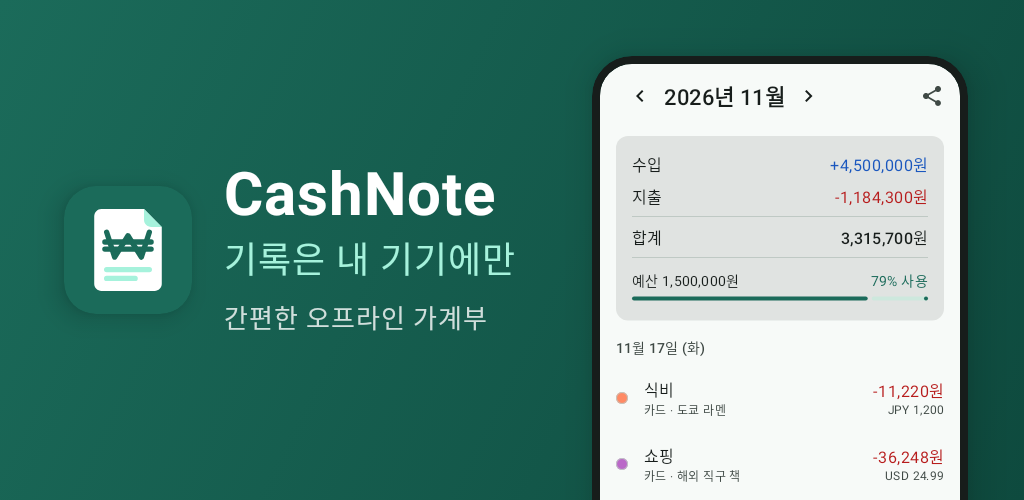
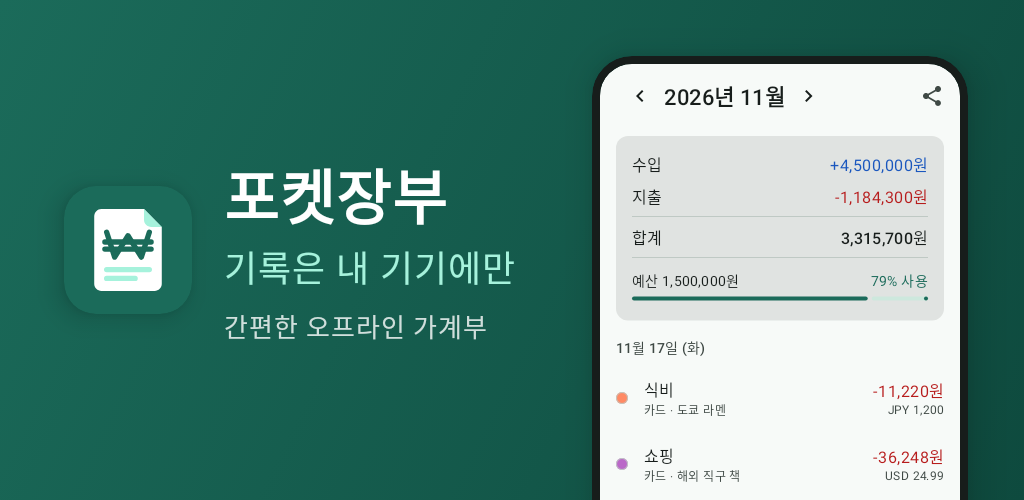
chore: 앱 이름을 포켓장부로 변경 (#137)

Changed region(s): [[0.2188, 0.33, 0.5, 0.45], [0.2188, 0.48, 0.5, 0.57], [0.2188, 0.6, 0.4688, 0.69]]

diff --git a/app/src/test/java/com/namhs/cashnote/presentation/home/HomeViewModelTest.kt b/app/src/test/java/com/namhs/cashnote/presentation/home/HomeViewModelTest.kt
@@ -403,7 +403,7 @@ class HomeViewModelTest {
             viewModel.onIntent(HomeIntent.ExportClicked)
 
             assertEquals(
-                HomeSideEffect.ShareFile("content://test/cashnote-$thisMonth.csv"),
+                HomeSideEffect.ShareFile("content://test/pocketjangbu-$thisMonth.csv"),
                 awaitItem()
             )
         }
@@ -421,7 +421,7 @@ class HomeViewModelTest {
             viewModel.onIntent(HomeIntent.ExportClicked)
 
             assertEquals(
-                HomeSideEffect.ShareFile("content://test/cashnote-$nextMonth.csv"),
+                HomeSideEffect.ShareFile("content://test/pocketjangbu-$nextMonth.csv"),
                 awaitItem()
             )
         }

diff --git a/app/src/test/java/com/namhs/cashnote/domain/usecase/ShareMonthlyCsvUseCaseTest.kt b/app/src/test/java/com/namhs/cashnote/domain/usecase/ShareMonthlyCsvUseCaseTest.kt
@@ -43,7 +43,7 @@ class ShareMonthlyCsvUseCaseTest {
     fun monthWithTransactions_savesFileAndReturnsUri() = runTest {
         val uri = useCase(lunch)(november)
 
-        assertEquals("content://test/cashnote-2026-11.csv", uri)
+        assertEquals("content://test/pocketjangbu-2026-11.csv", uri)
         val saved = exportFileRepository.saved.single()
         assertEquals(1, saved.rowCount)
         assertTrue(saved.content.contains("2026-11-03,지출,식비,12000,KRW,,,점심"))

diff --git a/app/src/main/java/com/namhs/cashnote/domain/usecase/ExportMonthlyCsvUseCase.kt b/app/src/main/java/com/namhs/cashnote/domain/usecase/ExportMonthlyCsvUseCase.kt
@@ -25,7 +25,7 @@ class ExportMonthlyCsvUseCase @Inject constructor(
             categoryById[transaction.categoryId]?.let { TransactionWithCategory(transaction, it) }
         }
         return CsvExport(
-            fileName = "cashnote-$month.csv",
+            fileName = "pocketjangbu-$month.csv",
             content = toCsv(rows),
             rowCount = rows.size
         )

diff --git a/app/src/test/java/com/namhs/cashnote/domain/usecase/ExportMonthlyCsvUseCaseTest.kt b/app/src/test/java/com/namhs/cashnote/domain/usecase/ExportMonthlyCsvUseCaseTest.kt
@@ -58,7 +58,7 @@ class ExportMonthlyCsvUseCaseTest {
             transaction(3, LocalDate.of(2026, 10, 31), 5_000, food)
         )(YearMonth.of(2026, 11))
 
-        assertEquals("cashnote-2026-11.csv", csv.fileName)
+        assertEquals("pocketjangbu-2026-11.csv", csv.fileName)
         assertEquals(2, csv.rowCount)
         assertEquals(
             bom + header +

diff --git a/app/src/main/java/com/namhs/cashnote/domain/model/CsvExport.kt b/app/src/main/java/com/namhs/cashnote/domain/model/CsvExport.kt
@@ -2,7 +2,7 @@ package com.namhs.cashnote.domain.model
 
 /** 내보낼 CSV 파일 하나 */
 data class CsvExport(
-    /** 저장할 파일 이름. 예: cashnote-2026-11.csv */
+    /** 저장할 파일 이름. 예: pocketjangbu-2026-11.csv */
     val fileName: String,
     /** BOM과 머리글을 포함한 파일 내용 */
     val content: String,

diff --git a/app/src/test/java/com/namhs/cashnote/store/FeatureGraphicTest.kt b/app/src/test/java/com/namhs/cashnote/store/FeatureGraphicTest.kt
@@ -84,7 +84,7 @@ private fun FeatureGraphic() {
             AppIcon()
             Column {
                 Text(
-                    text = "CashNote",
+                    text = "포켓장부",
                     color = Color.White,
                     fontSize = 30.sp,
                     fontWeight = FontWeight.Bold

diff --git a/docs/privacy-policy.md b/docs/privacy-policy.md
@@ -1,6 +1,6 @@
-# CashNote 개인정보처리방침
+# 포켓장부 개인정보처리방침
 
-CashNote(이하 "앱")의 개발자(이하 "개발자")는 이용자의 개인정보를 중요하게 여기며, 「개인정보 보호법」 등 관련 법령을 준수합니다. 이 방침은 앱이 어떤 정보를 어떻게 처리하는지 설명합니다.
+포켓장부(이하 "앱")의 개발자(이하 "개발자")는 이용자의 개인정보를 중요하게 여기며, 「개인정보 보호법」 등 관련 법령을 준수합니다. 이 방침은 앱이 어떤 정보를 어떻게 처리하는지 설명합니다.
 
 ## 1. 기본 원칙
 
@@ -73,7 +73,7 @@ Google의 개인정보 처리는 [Firebase 개인정보 및 보안](https://fire
 ## 11. 개인정보 보호책임자와 문의처
 
 - 개인정보 보호책임자: 남현석
-- 이메일: namhs.dev+cashnote@gmail.com
+- 이메일: namhs.dev+pocketjangbu@gmail.com
 
 개인정보 침해에 대한 신고나 상담은 아래 기관에도 문의할 수 있습니다.
 
@@ -87,3 +87,5 @@ Google의 개인정보 처리는 [Firebase 개인정보 및 보안](https://fire
 ## 13. 시행일
 
 이 방침은 2026년 11월 17일부터 시행합니다.
+
+- 2026년 11월 19일: 앱 이름을 CashNote에서 포켓장부로, 문의 이메일을 변경

diff --git a/README.md b/README.md
@@ -1,8 +1,10 @@
 <p align="center">
-  <img src="docs/icon/cashnote-icon-512.png" width="96" alt="CashNote 아이콘" />
+  <img src="docs/icon/cashnote-icon-512.png" width="96" alt="포켓장부 아이콘" />
 </p>
 
-<h1 align="center">CashNote</h1>
+<h1 align="center">포켓장부</h1>
+
+<p align="center"><sub>개발명 CashNote</sub></p>
 
 <p align="center">
   회원가입 없이 바로 쓰는 오프라인 우선 가계부 Android 앱<br/>
